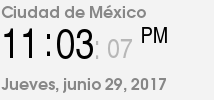
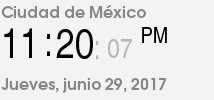
update images 29-06-2017 23:20

Changed region(s): [[0.2523, 0.3, 0.4486, 0.6]]

diff --git a/README.md b/README.md
@@ -6776,3 +6776,5 @@
 |29-06-2017 22:40
 |29-06-2017 22:50
 |29-06-2017 23:03
+|29-06-2017 23:11
+|29-06-2017 23:20
